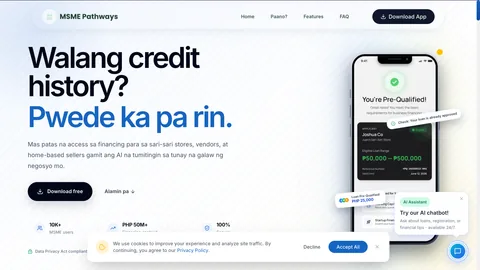
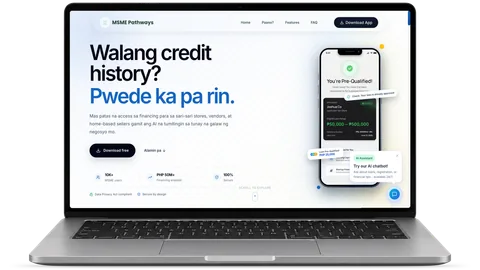
polished

diff --git a/src/App.css b/src/App.css
@@ -493,6 +493,18 @@
   object-fit: contain;
 }
 
+/* Transparent laptop renders sit straight on the page, no card. */
+:is(#msme-pathways, #plant-identifier, #readmission) .image-slot {
+  border-radius: 0;
+  overflow: visible;
+  background: none;
+  box-shadow: none;
+}
+
+:is(#msme-pathways, #plant-identifier, #readmission) .image-slot img {
+  object-fit: contain;
+}
+
 .image-slot--empty {
   display: grid;
   place-items: center;
